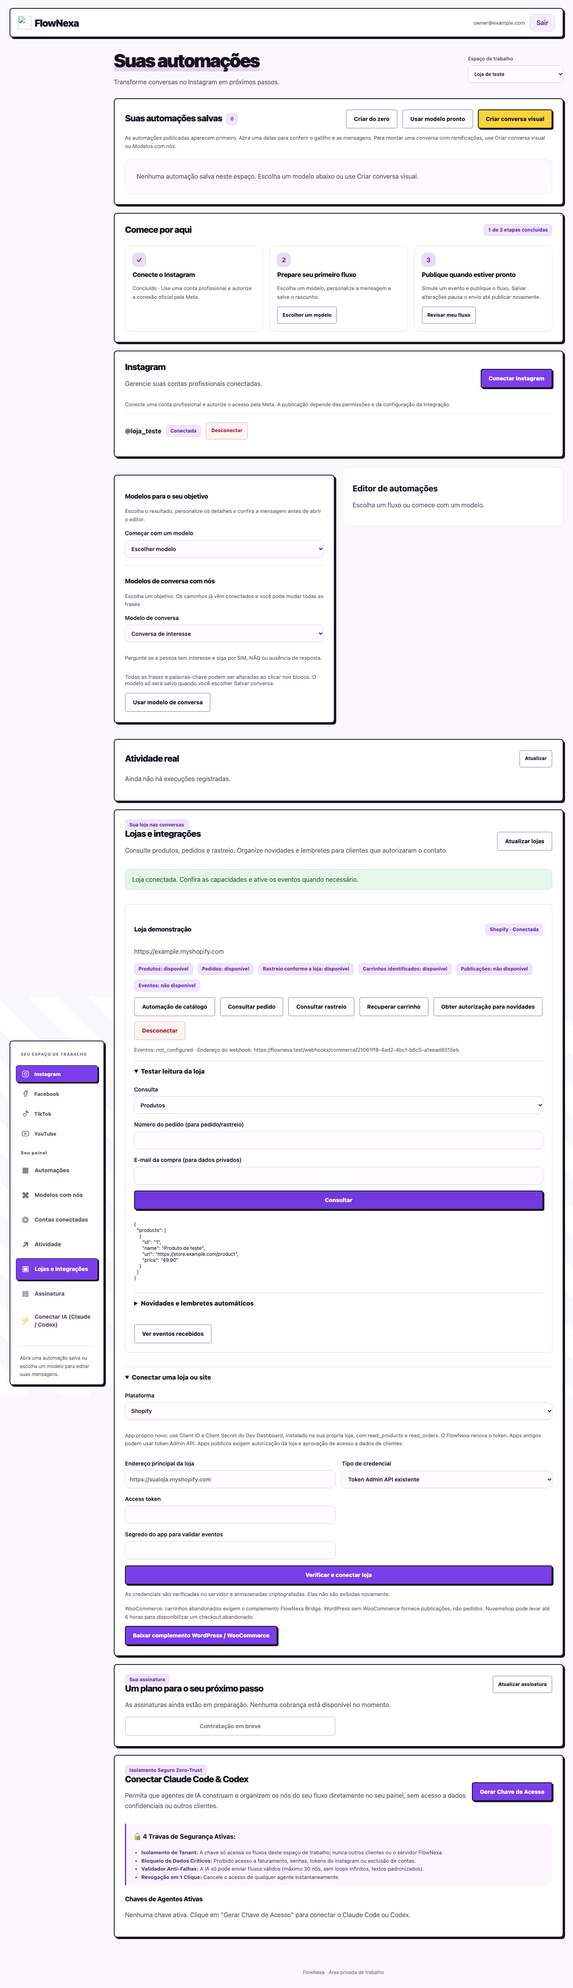
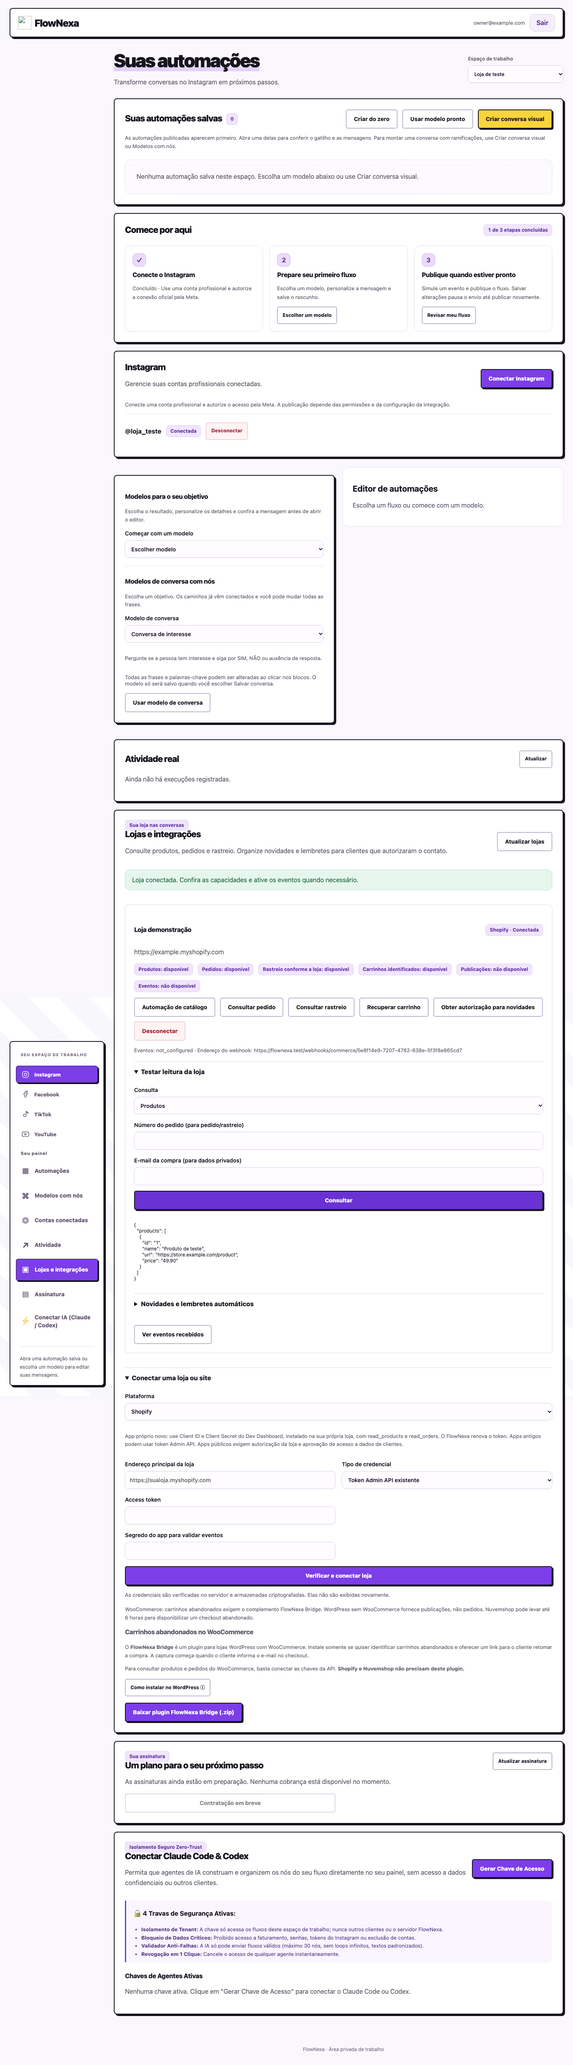
fix: explain optional WooCommerce plugin and installation tooltip

diff --git a/src/app-ui.js b/src/app-ui.js
@@ -198,6 +198,15 @@ body:has(.app-sidebar[hidden])>footer {margin-left:0}
 .channel-overview h3{font-size:15px;margin:0 0 12px}
 .channel-overview p{font-size:13px;line-height:1.5;margin:0;color:var(--app-muted)}
 @media(max-width:650px){.channel-overview{grid-template-columns:1fr}}
+ .commerce-bridge p {margin:12px 0;line-height:1.6}
+.commerce-install-help {position:relative;width:fit-content;max-width:100%;margin:16px 0}
+.commerce-install-help button {cursor:help}
+.commerce-install-tooltip {position:absolute;left:0;bottom:calc(100% + 8px);width:min(380px,65vw);box-sizing:border-box;padding:18px;background:#21182f;color:#fff;border:2px solid #21182f;border-radius:8px;box-shadow:5px 5px 0 #b795eb;z-index:20;visibility:hidden;opacity:0;font-size:13px;line-height:1.6;text-align:left}
+.commerce-install-tooltip::after {content:'';position:absolute;left:24px;top:100%;border:8px solid transparent;border-top-color:#21182f}
+.commerce-install-tooltip::before {content:'';position:absolute;left:0;right:0;top:100%;height:12px}
+.commerce-install-tooltip ol {margin:10px 0 0;padding-left:20px}
+.commerce-install-tooltip li+li {margin-top:7px}
+.commerce-install-help:not(.tooltip-dismissed):hover .commerce-install-tooltip,.commerce-install-help:not(.tooltip-dismissed):focus-within .commerce-install-tooltip {visibility:visible;opacity:1}
 .commerce-store {border:1px solid #dcd8e7;border-radius:8px;padding:22px;margin:18px 0;background:#fff}
 .commerce-store>.row {gap:12px;margin:14px 0;flex-wrap:wrap}
 .commerce-store details,.commerce-add {margin:18px 0;border-top:1px solid #ded8e8;padding-top:16px}
@@ -207,5 +216,5 @@ body:has(.app-sidebar[hidden])>footer {margin-left:0}
 .commerce-result {white-space:pre-wrap;overflow-wrap:anywhere;max-height:400px;overflow:auto;font-size:12px}
 #commerce>.row>div {flex:1 1 280px;min-width:0}
 @media(max-width:600px){.commerce-fields{grid-template-columns:minmax(0,1fr)}.commerce-store{padding:14px}.commerce-store>.row>button{width:100%}}
-</style><script src="/app.js" defer></script></head><body><a class="skip-link button" href="#workspace">Ir para o painel</a><header><a href="/app" aria-label="FlowNexa início"><img class="mark" src="/assets/flownexa-mark.svg" alt="" width="34" height="34">FlowNexa</a><div class="row"><span id="identity"></span><button id="logout" class="secondary" hidden>Sair</button></div></header><aside id="app-sidebar" class="app-sidebar" aria-label="Menu do painel" hidden><p>SEU ESPAÇO DE TRABALHO</p><div class="channel-switch" role="tablist" aria-label="Canais da empresa"><button id="channel-instagram" role="tab" aria-selected="true" aria-controls="instagram-channel"><span class="channel-icon" aria-hidden="true"><svg width="20" height="20" viewBox="0 0 24 24" fill="none" stroke="currentColor" stroke-width="1.7" stroke-linecap="round" stroke-linejoin="round"><rect x="3" y="3" width="18" height="18" rx="5"/><circle cx="12" cy="12" r="4"/><circle cx="17.5" cy="6.5" r=".8" fill="currentColor" stroke="none"/></svg></span><span>Instagram</span></button><button id="channel-facebook" role="tab" aria-selected="false" aria-controls="facebook" tabindex="-1"><span class="channel-icon" aria-hidden="true"><svg width="20" height="20" viewBox="0 0 24 24" fill="none" stroke="currentColor" stroke-width="1.7" stroke-linecap="round" stroke-linejoin="round"><path d="M14 21v-8h3l.5-4H14V7c0-1 .5-2 2-2h2V2h-3c-3 0-5 2-5 5v2H7v4h3v8"/></svg></span><span>Facebook</span></button><button id="channel-tiktok" role="tab" aria-selected="false" aria-controls="tiktok-channel" tabindex="-1"><span class="channel-icon" aria-hidden="true"><svg width="20" height="20" viewBox="0 0 24 24" fill="none" stroke="currentColor" stroke-width="1.7" stroke-linecap="round" stroke-linejoin="round"><path d="M14 3v12a4 4 0 1 1-4-4h1M14 3c0 4 3 6 6 6V6c-2 0-4-1-4-3z"/></svg></span><span>TikTok</span></button><button id="channel-youtube" role="tab" aria-selected="false" aria-controls="youtube-channel" tabindex="-1"><span class="channel-icon" aria-hidden="true"><svg width="20" height="20" viewBox="0 0 24 24" fill="none" stroke="currentColor" stroke-width="1.7" stroke-linecap="round" stroke-linejoin="round"><rect x="2" y="5" width="20" height="14" rx="4"/><path d="m10 9 5 3-5 3z"/></svg></span><span>YouTube</span></button></div><p class="sidebar-section-title">Seu painel</p><nav aria-label="Navegação principal"><a href="#saved-automations" aria-current="page"><span class="nav-symbol" aria-hidden="true">▦</span>Automações</a><a href="#conversation-models"><span class="nav-symbol" aria-hidden="true">⌘</span>Modelos com nós</a><a href="#instagram-panel"><span class="nav-symbol" aria-hidden="true">◎</span>Contas conectadas</a><a id="facebook-nav" href="#facebook" hidden><span class="nav-symbol" aria-hidden="true">f</span>Respostas e atividade</a><a href="#activity-panel"><span class="nav-symbol" aria-hidden="true">↗</span>Atividade</a><a href="#commerce"><span class="nav-symbol" aria-hidden="true">▣</span>Lojas e integrações</a><a href="#billing"><span class="nav-symbol" aria-hidden="true">▤</span>Assinatura</a><a href="#ai-agents"><span class="nav-symbol" aria-hidden="true">⚡</span>Conectar IA (Claude / Codex)</a></nav><p class="sidebar-help">Abra uma automação salva ou escolha um modelo para editar mensagens e conectar os próximos passos.</p></aside><main class="app-main"><div id="notice" class="status" role="status" aria-live="polite" hidden></div><section id="auth" class="panel auth"></section><section id="workspace" hidden><div class="row between"><div><h1>Suas automações</h1><p class="muted">Transforme conversas no Instagram em próximos passos.</p></div><label>Espaço de trabalho<select id="workspace-select"></select></label></div><div id="instagram-channel" role="tabpanel" aria-labelledby="channel-instagram"><section id="saved-automations" class="panel"><div class="row between"><h2>Suas automações salvas <span id="flow-count" class="badge"></span></h2><div class="row"><button id="new-flow" class="secondary">Criar do zero</button><button id="choose-template" class="secondary">Usar modelo pronto</button><button id="new-conversation">Criar conversa visual</button></div></div><p class="notice">As automações publicadas aparecem primeiro. Abra uma delas para conferir o gatilho e as mensagens. Para montar uma conversa com ramificações, use Criar conversa visual ou Modelos com nós.</p><div id="flows" class="saved-flows"></div></section><section id="setup" class="panel" aria-labelledby="setup-heading"><div class="row between"><h2 id="setup-heading">Comece por aqui</h2><span id="setup-progress" class="badge"></span></div><ol id="setup-steps" class="setup-steps"></ol></section><section id="instagram-panel" class="panel"><div class="row between"><div><h2>Instagram</h2><p id="account-summary" class="muted">Carregando contas…</p></div><button id="connect">Conectar Instagram</button></div><p class="notice">Conecte uma conta profissional e autorize o acesso pela Meta. A publicação depende das permissões e da configuração da integração.</p><div id="accounts"></div></section><div class="grid models-layout"><section><div id="conversation-models" class="panel"><div id="template-library"><h3>Modelos para o seu objetivo</h3><p class="notice">Escolha o resultado, personalize os detalhes e confira a mensagem antes de abrir o editor.</p><label>Começar com um modelo<select id="template" aria-label="Começar com um modelo"><option value="">Escolher modelo</option></select></label><div id="template-preview" class="template-preview" hidden></div></div><div class="conversation-preset"><h3>Modelos de conversa com nós</h3><p class="notice">Escolha um objetivo. Os caminhos já vêm conectados e você pode mudar todas as frases.</p><label>Modelo de conversa<select id="conversation-template" aria-label="Modelo de conversa"></select></label><div id="conversation-template-fields" class="stack"></div><button id="conversation-model" class="secondary">Usar modelo de conversa</button></div></div></section><section id="editor" class="panel"><h2>Editor de automações</h2><p class="muted">Escolha uma automação salva acima para abrir sua configuração.</p><p class="editor-hint">Quer usar nós? Clique em <strong>Criar conversa visual</strong> para começar do zero ou escolha um dos <strong>Modelos de conversa com nós</strong>. No mapa, clique em cada bloco para mudar a frase e o próximo passo.</p></section></div><section id="activity-panel" class="panel"><div class="row between"><h2>Atividade real</h2><button id="refresh-activity" class="secondary mini">Atualizar</button></div><div id="executions"><p class="muted">Nenhuma execução carregada.</p></div></section></div><section id="facebook" role="tabpanel" aria-labelledby="channel-facebook" class="panel" hidden></section><section id="facebook-unavailable" class="panel channel-empty" aria-labelledby="facebook-unavailable-heading" hidden><span class="channel-kicker">Facebook</span><h2 id="facebook-unavailable-heading">Facebook neste espaço</h2><p>O piloto de Páginas e Messenger ainda não está liberado para esta empresa. Suas automações do Instagram continuam disponíveis.</p><button disabled>Conexão indisponível neste espaço</button></section><section id="tiktok-channel" class="panel channel-empty" role="tabpanel" aria-labelledby="channel-tiktok" hidden><span class="channel-kicker">TikTok</span><h2>Automações do TikTok</h2><p>Em breve</p><p class="muted">Este canal ainda não está disponível. Quando for liberado, você poderá conectar a conta da sua empresa aqui, neste mesmo espaço.</p><div class="channel-overview"><article><h3>Contas</h3><p>Conexão ainda indisponível</p></article><article><h3>Automações</h3><p>Aguardando integração oficial</p></article><article><h3>Atividade</h3><p>Sem dados disponíveis</p></article></div><button disabled>Conectar TikTok · Em breve</button></section><section id="youtube-channel" class="panel channel-empty" role="tabpanel" aria-labelledby="channel-youtube" hidden><span class="channel-kicker">YouTube</span><h2>Automações do YouTube</h2><p>Em breve</p><p class="muted">Este canal ainda não está disponível. Quando for liberado, você poderá conectar a conta da sua empresa aqui, neste mesmo espaço.</p><div class="channel-overview"><article><h3>Contas</h3><p>Conexão ainda indisponível</p></article><article><h3>Automações</h3><p>Aguardando integração oficial</p></article><article><h3>Atividade</h3><p>Sem dados disponíveis</p></article></div><button disabled>Conectar YouTube · Em breve</button></section><section id="commerce" class="panel" aria-labelledby="commerce-heading"><div class="row between"><div><span class="badge">Sua loja nas conversas</span><h2 id="commerce-heading">Lojas e integrações</h2><p class="muted">Consulte produtos, pedidos e rastreio. Organize novidades e lembretes para clientes que autorizaram o contato.</p></div><button id="commerce-refresh" class="secondary">Atualizar lojas</button></div><p id="commerce-status" class="status" role="status" hidden></p><div id="commerce-stores" class="stack"></div><details class="commerce-add"><summary>Conectar uma loja ou site</summary><div id="commerce-connect"></div></details><p class="notice">WooCommerce: carrinhos abandonados exigem o complemento FlowNexa Bridge. WordPress sem WooCommerce fornece publicações, não pedidos. Nuvemshop pode levar até 6 horas para disponibilizar um checkout abandonado.</p><a href="/integrations/flownexa-bridge.zip" class="button secondary" download>Baixar complemento WordPress / WooCommerce</a></section><section id="billing" class="panel" aria-labelledby="billing-heading"><div class="row between"><div><span class="badge">Sua assinatura</span><h2 id="billing-heading">Um plano para o seu próximo passo</h2></div><button id="billing-refresh" class="secondary mini">Atualizar assinatura</button></div><p id="billing-status" class="muted" aria-live="polite">Carregando informações da assinatura…</p><div id="billing-plans" class="billing-plans"></div><div id="checkout-shell" class="checkout-shell" hidden><div class="row between"><h3>Finalize sua assinatura com segurança</h3><button id="checkout-close" class="secondary mini">Fechar checkout</button></div><p class="notice">Confira o plano e a periodicidade abaixo antes de confirmar. Os dados de pagamento são preenchidos no formulário seguro da Stripe.</p><div id="embedded-checkout"></div></div></section><section id="ai-agents" class="panel" aria-labelledby="ai-agents-heading"><div class="row between"><div><span class="badge">Isolamento Seguro Zero-Trust</span><h2 id="ai-agents-heading">Conectar Claude Code & Codex</h2><p class="muted">Permita que agentes de IA construam e organizem os nós do seu fluxo diretamente no seu painel, sem acesso a dados confidenciais ou outros clientes.</p></div><button id="new-agent-token">Gerar Chave de Acesso</button></div><div class="callout" style="margin:16px 0; border-color:#663bc8;"><p><strong>🔒 4 Travas de Segurança Ativas:</strong></p><ul style="margin:6px 0; padding-left:20px; font-size:13px; color:#503582; line-height:1.6;"><li><strong>Isolamento de Tenant:</strong> A chave só acessa os fluxos deste espaço de trabalho; nunca outros clientes ou o servidor FlowNexa.</li><li><strong>Bloqueio de Dados Críticos:</strong> Proibido acesso a faturamento, senhas, tokens do Instagram ou exclusão de contas.</li><li><strong>Validador Anti-Falhas:</strong> A IA só pode enviar fluxos válidos (máximo 30 nós, sem loops infinitos, textos padronizados).</li><li><strong>Revogação em 1 Clique:</strong> Cancele o acesso de qualquer agente instantaneamente.</li></ul></div><div id="token-reveal" class="status success" hidden><p><strong>Guarde sua chave com segurança (ela não será mostrada novamente):</strong></p><div class="row" style="margin-top:8px;"><input id="token-value" type="text" readonly style="font-family:monospace; background:white; font-size:13px; font-weight:700;"><button id="copy-token" class="secondary mini">Copiar</button></div><div style="margin-top:12px; font-size:13px;"><p><strong>Como conectar no Claude Code:</strong></p><pre id="claude-cmd" style="background:#1a1036; color:#a3e635; padding:10px; border-radius:8px; font-family:monospace; font-size:12px; overflow-x:auto;"></pre><p style="margin-top:8px;"><strong>Como conectar no Codex / Cursor / cURL:</strong></p><pre id="codex-cmd" style="background:#1a1036; color:#38bdf8; padding:10px; border-radius:8px; font-family:monospace; font-size:12px; overflow-x:auto;"></pre></div></div><h3 style="margin-top:24px;">Chaves de Agentes Ativas</h3><div id="agent-tokens-list"><p class="muted">Nenhuma chave de agente criada ainda.</p></div></section></section></main><footer>FlowNexa · Área privada de trabalho</footer><dialog id="graph-dialog" aria-labelledby="graph-heading"></dialog></body></html>`;
+</style><script src="/app.js" defer></script></head><body><a class="skip-link button" href="#workspace">Ir para o painel</a><header><a href="/app" aria-label="FlowNexa início"><img class="mark" src="/assets/flownexa-mark.svg" alt="" width="34" height="34">FlowNexa</a><div class="row"><span id="identity"></span><button id="logout" class="secondary" hidden>Sair</button></div></header><aside id="app-sidebar" class="app-sidebar" aria-label="Menu do painel" hidden><p>SEU ESPAÇO DE TRABALHO</p><div class="channel-switch" role="tablist" aria-label="Canais da empresa"><button id="channel-instagram" role="tab" aria-selected="true" aria-controls="instagram-channel"><span class="channel-icon" aria-hidden="true"><svg width="20" height="20" viewBox="0 0 24 24" fill="none" stroke="currentColor" stroke-width="1.7" stroke-linecap="round" stroke-linejoin="round"><rect x="3" y="3" width="18" height="18" rx="5"/><circle cx="12" cy="12" r="4"/><circle cx="17.5" cy="6.5" r=".8" fill="currentColor" stroke="none"/></svg></span><span>Instagram</span></button><button id="channel-facebook" role="tab" aria-selected="false" aria-controls="facebook" tabindex="-1"><span class="channel-icon" aria-hidden="true"><svg width="20" height="20" viewBox="0 0 24 24" fill="none" stroke="currentColor" stroke-width="1.7" stroke-linecap="round" stroke-linejoin="round"><path d="M14 21v-8h3l.5-4H14V7c0-1 .5-2 2-2h2V2h-3c-3 0-5 2-5 5v2H7v4h3v8"/></svg></span><span>Facebook</span></button><button id="channel-tiktok" role="tab" aria-selected="false" aria-controls="tiktok-channel" tabindex="-1"><span class="channel-icon" aria-hidden="true"><svg width="20" height="20" viewBox="0 0 24 24" fill="none" stroke="currentColor" stroke-width="1.7" stroke-linecap="round" stroke-linejoin="round"><path d="M14 3v12a4 4 0 1 1-4-4h1M14 3c0 4 3 6 6 6V6c-2 0-4-1-4-3z"/></svg></span><span>TikTok</span></button><button id="channel-youtube" role="tab" aria-selected="false" aria-controls="youtube-channel" tabindex="-1"><span class="channel-icon" aria-hidden="true"><svg width="20" height="20" viewBox="0 0 24 24" fill="none" stroke="currentColor" stroke-width="1.7" stroke-linecap="round" stroke-linejoin="round"><rect x="2" y="5" width="20" height="14" rx="4"/><path d="m10 9 5 3-5 3z"/></svg></span><span>YouTube</span></button></div><p class="sidebar-section-title">Seu painel</p><nav aria-label="Navegação principal"><a href="#saved-automations" aria-current="page"><span class="nav-symbol" aria-hidden="true">▦</span>Automações</a><a href="#conversation-models"><span class="nav-symbol" aria-hidden="true">⌘</span>Modelos com nós</a><a href="#instagram-panel"><span class="nav-symbol" aria-hidden="true">◎</span>Contas conectadas</a><a id="facebook-nav" href="#facebook" hidden><span class="nav-symbol" aria-hidden="true">f</span>Respostas e atividade</a><a href="#activity-panel"><span class="nav-symbol" aria-hidden="true">↗</span>Atividade</a><a href="#commerce"><span class="nav-symbol" aria-hidden="true">▣</span>Lojas e integrações</a><a href="#billing"><span class="nav-symbol" aria-hidden="true">▤</span>Assinatura</a><a href="#ai-agents"><span class="nav-symbol" aria-hidden="true">⚡</span>Conectar IA (Claude / Codex)</a></nav><p class="sidebar-help">Abra uma automação salva ou escolha um modelo para editar mensagens e conectar os próximos passos.</p></aside><main class="app-main"><div id="notice" class="status" role="status" aria-live="polite" hidden></div><section id="auth" class="panel auth"></section><section id="workspace" hidden><div class="row between"><div><h1>Suas automações</h1><p class="muted">Transforme conversas no Instagram em próximos passos.</p></div><label>Espaço de trabalho<select id="workspace-select"></select></label></div><div id="instagram-channel" role="tabpanel" aria-labelledby="channel-instagram"><section id="saved-automations" class="panel"><div class="row between"><h2>Suas automações salvas <span id="flow-count" class="badge"></span></h2><div class="row"><button id="new-flow" class="secondary">Criar do zero</button><button id="choose-template" class="secondary">Usar modelo pronto</button><button id="new-conversation">Criar conversa visual</button></div></div><p class="notice">As automações publicadas aparecem primeiro. Abra uma delas para conferir o gatilho e as mensagens. Para montar uma conversa com ramificações, use Criar conversa visual ou Modelos com nós.</p><div id="flows" class="saved-flows"></div></section><section id="setup" class="panel" aria-labelledby="setup-heading"><div class="row between"><h2 id="setup-heading">Comece por aqui</h2><span id="setup-progress" class="badge"></span></div><ol id="setup-steps" class="setup-steps"></ol></section><section id="instagram-panel" class="panel"><div class="row between"><div><h2>Instagram</h2><p id="account-summary" class="muted">Carregando contas…</p></div><button id="connect">Conectar Instagram</button></div><p class="notice">Conecte uma conta profissional e autorize o acesso pela Meta. A publicação depende das permissões e da configuração da integração.</p><div id="accounts"></div></section><div class="grid models-layout"><section><div id="conversation-models" class="panel"><div id="template-library"><h3>Modelos para o seu objetivo</h3><p class="notice">Escolha o resultado, personalize os detalhes e confira a mensagem antes de abrir o editor.</p><label>Começar com um modelo<select id="template" aria-label="Começar com um modelo"><option value="">Escolher modelo</option></select></label><div id="template-preview" class="template-preview" hidden></div></div><div class="conversation-preset"><h3>Modelos de conversa com nós</h3><p class="notice">Escolha um objetivo. Os caminhos já vêm conectados e você pode mudar todas as frases.</p><label>Modelo de conversa<select id="conversation-template" aria-label="Modelo de conversa"></select></label><div id="conversation-template-fields" class="stack"></div><button id="conversation-model" class="secondary">Usar modelo de conversa</button></div></div></section><section id="editor" class="panel"><h2>Editor de automações</h2><p class="muted">Escolha uma automação salva acima para abrir sua configuração.</p><p class="editor-hint">Quer usar nós? Clique em <strong>Criar conversa visual</strong> para começar do zero ou escolha um dos <strong>Modelos de conversa com nós</strong>. No mapa, clique em cada bloco para mudar a frase e o próximo passo.</p></section></div><section id="activity-panel" class="panel"><div class="row between"><h2>Atividade real</h2><button id="refresh-activity" class="secondary mini">Atualizar</button></div><div id="executions"><p class="muted">Nenhuma execução carregada.</p></div></section></div><section id="facebook" role="tabpanel" aria-labelledby="channel-facebook" class="panel" hidden></section><section id="facebook-unavailable" class="panel channel-empty" aria-labelledby="facebook-unavailable-heading" hidden><span class="channel-kicker">Facebook</span><h2 id="facebook-unavailable-heading">Facebook neste espaço</h2><p>O piloto de Páginas e Messenger ainda não está liberado para esta empresa. Suas automações do Instagram continuam disponíveis.</p><button disabled>Conexão indisponível neste espaço</button></section><section id="tiktok-channel" class="panel channel-empty" role="tabpanel" aria-labelledby="channel-tiktok" hidden><span class="channel-kicker">TikTok</span><h2>Automações do TikTok</h2><p>Em breve</p><p class="muted">Este canal ainda não está disponível. Quando for liberado, você poderá conectar a conta da sua empresa aqui, neste mesmo espaço.</p><div class="channel-overview"><article><h3>Contas</h3><p>Conexão ainda indisponível</p></article><article><h3>Automações</h3><p>Aguardando integração oficial</p></article><article><h3>Atividade</h3><p>Sem dados disponíveis</p></article></div><button disabled>Conectar TikTok · Em breve</button></section><section id="youtube-channel" class="panel channel-empty" role="tabpanel" aria-labelledby="channel-youtube" hidden><span class="channel-kicker">YouTube</span><h2>Automações do YouTube</h2><p>Em breve</p><p class="muted">Este canal ainda não está disponível. Quando for liberado, você poderá conectar a conta da sua empresa aqui, neste mesmo espaço.</p><div class="channel-overview"><article><h3>Contas</h3><p>Conexão ainda indisponível</p></article><article><h3>Automações</h3><p>Aguardando integração oficial</p></article><article><h3>Atividade</h3><p>Sem dados disponíveis</p></article></div><button disabled>Conectar YouTube · Em breve</button></section><section id="commerce" class="panel" aria-labelledby="commerce-heading"><div class="row between"><div><span class="badge">Sua loja nas conversas</span><h2 id="commerce-heading">Lojas e integrações</h2><p class="muted">Consulte produtos, pedidos e rastreio. Organize novidades e lembretes para clientes que autorizaram o contato.</p></div><button id="commerce-refresh" class="secondary">Atualizar lojas</button></div><p id="commerce-status" class="status" role="status" hidden></p><div id="commerce-stores" class="stack"></div><details class="commerce-add"><summary>Conectar uma loja ou site</summary><div id="commerce-connect"></div></details><p class="notice">WooCommerce: carrinhos abandonados exigem o complemento FlowNexa Bridge. WordPress sem WooCommerce fornece publicações, não pedidos. Nuvemshop pode levar até 6 horas para disponibilizar um checkout abandonado.</p><aside class="commerce-bridge notice" aria-labelledby="commerce-bridge-heading"><h3 id="commerce-bridge-heading">Carrinhos abandonados no WooCommerce</h3><p>O <strong>FlowNexa Bridge</strong> é um plugin para lojas WordPress com WooCommerce. Instale somente se quiser identificar carrinhos abandonados e oferecer um link para o cliente retomar a compra. A captura começa quando o cliente informa o e-mail no checkout.</p><p>Para consultar produtos e pedidos do WooCommerce, basta conectar as chaves da API. <strong>Shopify e Nuvemshop não precisam deste plugin.</strong></p><div class="commerce-install-help"><button id="commerce-install-help-button" type="button" class="secondary mini" aria-describedby="commerce-install-tooltip">Como instalar no WordPress <span aria-hidden="true">ⓘ</span></button><div id="commerce-install-tooltip" class="commerce-install-tooltip" role="tooltip"><strong>Instale pelo painel do WordPress</strong><ol><li>Baixe o arquivo ZIP abaixo, sem descompactar.</li><li>Abra Plugins → Adicionar plugin → Enviar plugin.</li><li>Selecione o ZIP, clique em Instalar agora e depois em Ativar plugin.</li><li>Em Configurações → FlowNexa Bridge, salve para gerar a chave compartilhada.</li><li>Copie a chave para a conexão WooCommerce no FlowNexa. Depois, copie o endereço do webhook dessa conexão para o plugin e salve.</li></ol></div></div><a href="/integrations/flownexa-bridge.zip" class="button secondary" download>Baixar plugin FlowNexa Bridge (.zip)</a></aside></section><section id="billing" class="panel" aria-labelledby="billing-heading"><div class="row between"><div><span class="badge">Sua assinatura</span><h2 id="billing-heading">Um plano para o seu próximo passo</h2></div><button id="billing-refresh" class="secondary mini">Atualizar assinatura</button></div><p id="billing-status" class="muted" aria-live="polite">Carregando informações da assinatura…</p><div id="billing-plans" class="billing-plans"></div><div id="checkout-shell" class="checkout-shell" hidden><div class="row between"><h3>Finalize sua assinatura com segurança</h3><button id="checkout-close" class="secondary mini">Fechar checkout</button></div><p class="notice">Confira o plano e a periodicidade abaixo antes de confirmar. Os dados de pagamento são preenchidos no formulário seguro da Stripe.</p><div id="embedded-checkout"></div></div></section><section id="ai-agents" class="panel" aria-labelledby="ai-agents-heading"><div class="row between"><div><span class="badge">Isolamento Seguro Zero-Trust</span><h2 id="ai-agents-heading">Conectar Claude Code & Codex</h2><p class="muted">Permita que agentes de IA construam e organizem os nós do seu fluxo diretamente no seu painel, sem acesso a dados confidenciais ou outros clientes.</p></div><button id="new-agent-token">Gerar Chave de Acesso</button></div><div class="callout" style="margin:16px 0; border-color:#663bc8;"><p><strong>🔒 4 Travas de Segurança Ativas:</strong></p><ul style="margin:6px 0; padding-left:20px; font-size:13px; color:#503582; line-height:1.6;"><li><strong>Isolamento de Tenant:</strong> A chave só acessa os fluxos deste espaço de trabalho; nunca outros clientes ou o servidor FlowNexa.</li><li><strong>Bloqueio de Dados Críticos:</strong> Proibido acesso a faturamento, senhas, tokens do Instagram ou exclusão de contas.</li><li><strong>Validador Anti-Falhas:</strong> A IA só pode enviar fluxos válidos (máximo 30 nós, sem loops infinitos, textos padronizados).</li><li><strong>Revogação em 1 Clique:</strong> Cancele o acesso de qualquer agente instantaneamente.</li></ul></div><div id="token-reveal" class="status success" hidden><p><strong>Guarde sua chave com segurança (ela não será mostrada novamente):</strong></p><div class="row" style="margin-top:8px;"><input id="token-value" type="text" readonly style="font-family:monospace; background:white; font-size:13px; font-weight:700;"><button id="copy-token" class="secondary mini">Copiar</button></div><div style="margin-top:12px; font-size:13px;"><p><strong>Como conectar no Claude Code:</strong></p><pre id="claude-cmd" style="background:#1a1036; color:#a3e635; padding:10px; border-radius:8px; font-family:monospace; font-size:12px; overflow-x:auto;"></pre><p style="margin-top:8px;"><strong>Como conectar no Codex / Cursor / cURL:</strong></p><pre id="codex-cmd" style="background:#1a1036; color:#38bdf8; padding:10px; border-radius:8px; font-family:monospace; font-size:12px; overflow-x:auto;"></pre></div></div><h3 style="margin-top:24px;">Chaves de Agentes Ativas</h3><div id="agent-tokens-list"><p class="muted">Nenhuma chave de agente criada ainda.</p></div></section></section></main><footer>FlowNexa · Área privada de trabalho</footer><dialog id="graph-dialog" aria-labelledby="graph-heading"></dialog></body></html>`;
 }

diff --git a/src/commerce/client.js b/src/commerce/client.js
@@ -52,6 +52,8 @@ export function createCommerceClient({api,post,getWorkspace,getGeneration,getAcc
   return card;
  }
  async function load(){const generation=getGeneration(),workspace=getWorkspace(),run=++epoch;if(!workspace)return;if(loadedWorkspace!==workspace){loadedWorkspace=workspace;stores=[];host.replaceChildren();connectForm();message.hidden=true;}try{const r=await api('/api/commerce/stores?workspace='+encodeURIComponent(workspace));if(generation!==getGeneration()||run!==epoch)return;stores=r.stores||[];if(JSON.stringify(oauth)!==JSON.stringify(r.oauth||{})){oauth=r.oauth||{};connectForm();}host.replaceChildren();if(!stores.length)host.append(el('p','Conecte sua primeira loja para usar produtos, pedidos e rastreio nas conversas.','notice'));for(const store of stores)host.append(renderStore(store));}catch{if(generation!==getGeneration()||run!==epoch)return;host.replaceChildren(el('p','Não foi possível carregar as lojas. Atualize para tentar novamente.','notice'));}}
+ const installHelp=document.getElementById('commerce-install-help-button');
+ if(installHelp){const wrapper=installHelp.parentElement;const show=()=>wrapper.classList.remove('tooltip-dismissed');wrapper.addEventListener('mouseenter',show);installHelp.addEventListener('focus',show);installHelp.addEventListener('click',()=>{show();installHelp.focus();});installHelp.addEventListener('keydown',event=>{if(event.key==='Escape'){wrapper.classList.add('tooltip-dismissed');event.preventDefault();}});}
  connectForm();document.getElementById('commerce-refresh')?.addEventListener('click',load);
  return{load,stores:()=>stores};
 }
